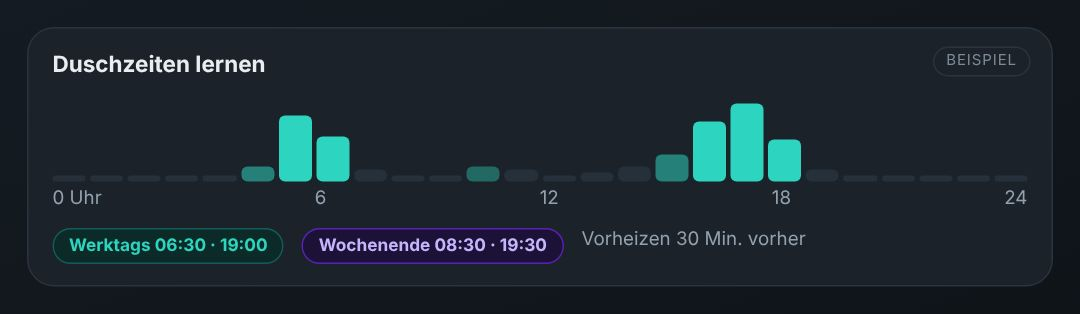
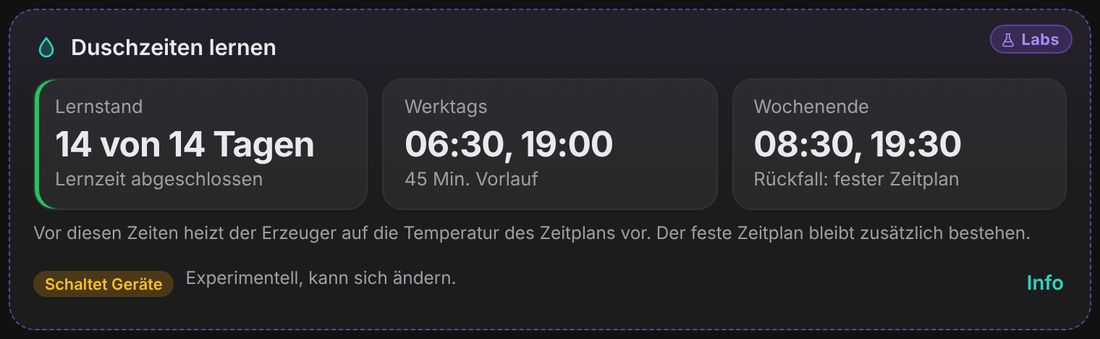
Labs: Beispielbilder als echte Panel-Ausschnitte
Claude-Session: https://claude.ai/code/session_01A6nz2eteovz86KNNe1Xnru

diff --git a/custom_components/fenster_heizung/frontend/panel.js b/custom_components/fenster_heizung/frontend/panel.js
@@ -5340,7 +5340,7 @@ class FensterHeizungPanel extends HTMLElement {
     return `<div class="ov" data-act="close"></div><div class="sheet wide stosh" role="dialog" aria-modal="true">
       <div class="stohd"><span class="stoi big labi">${ic(x.i, 38)}</span><div><b>${esc(x.n)}</b><small>Labs · ${esc(x.mod)} ${esc(x.mn)}</small><div class="stoact">${x.soon ? `<span class="risk">In Vorbereitung</span>` : `<button class="btn2 pri" data-act="labtog" data-k="${x.id}" ${adm ? "" : "disabled"}>${on ? "Ausschalten" : "Einschalten"}</button>${on ? `<span class="stos ok">● Eingeschaltet</span>` : ""}`}</div></div><button class="ibtn" data-act="close" aria-label="Schließen">${ic("close", 20)}</button></div>
       <div class="mut sm" style="margin:0 0 8px">${esc(x.d)}</div>
-      ${LAB_IMG[x.id] ? `<figure class="labfig"><img src="${GA_IMG}lab-${x.id}.jpg${this._ver ? "?v=" + encodeURIComponent(this._ver) : ""}" alt="${esc(LAB_IMG[x.id])}" loading="lazy" decoding="async"><figcaption>${ic("info", 13)}Beispielbild mit erfundenen Werten: ${esc(LAB_IMG[x.id])}</figcaption></figure>` : ""}
+      ${LAB_IMG[x.id] ? `<figure class="labfig"><img src="${GA_IMG}lab-${x.id}.jpg${this._ver ? "?v=" + encodeURIComponent(this._ver) : ""}" alt="${esc(LAB_IMG[x.id])}" loading="lazy" decoding="async"><figcaption>${ic("info", 13)}Ausschnitt aus dem Panel mit Beispielwerten: ${esc(LAB_IMG[x.id])}</figcaption></figure>` : ""}
       ${x.sponsor ? `<div class="spnote">${ic("heart", 18)}<span><b>Nur für Sponsoren</b>${this._spnS().active ? "Dein Sponsor-Schlüssel ist aktiv, du kannst das Modul einschalten." : "Zum Einschalten brauchst du einen aktiven Sponsor-Schlüssel."}</span>${this._spnS().active ? "" : `<button class="btn2" data-act="spnopen">Sponsor werden</button>`}</div>` : ""}
       <div class="stofa"><div><b>${esc(x.mod)}</b><small>wird angezeigt in</small></div><div><b>${this._labK(x)[0]}</b><small>Art</small></div><div><b>${esc(x.st)}${this._labIsEarly(x) ? ` · Vorab bis ${this._labEarlyDate(x)}` : ""}</b><small>Stand</small></div></div>
       <div class="lsec">${ic("check", 15)}Was du bekommst</div><ul class="stoul">${x.feats.map((f) => `<li>${esc(f)}</li>`).join("")}</ul>

diff --git a/frontend-src/parts/12a-labs.js b/frontend-src/parts/12a-labs.js
@@ -269,7 +269,7 @@
     return `<div class="ov" data-act="close"></div><div class="sheet wide stosh" role="dialog" aria-modal="true">
       <div class="stohd"><span class="stoi big labi">${ic(x.i, 38)}</span><div><b>${esc(x.n)}</b><small>Labs · ${esc(x.mod)} ${esc(x.mn)}</small><div class="stoact">${x.soon ? `<span class="risk">In Vorbereitung</span>` : `<button class="btn2 pri" data-act="labtog" data-k="${x.id}" ${adm ? "" : "disabled"}>${on ? "Ausschalten" : "Einschalten"}</button>${on ? `<span class="stos ok">● Eingeschaltet</span>` : ""}`}</div></div><button class="ibtn" data-act="close" aria-label="Schließen">${ic("close", 20)}</button></div>
       <div class="mut sm" style="margin:0 0 8px">${esc(x.d)}</div>
-      ${LAB_IMG[x.id] ? `<figure class="labfig"><img src="${GA_IMG}lab-${x.id}.jpg${this._ver ? "?v=" + encodeURIComponent(this._ver) : ""}" alt="${esc(LAB_IMG[x.id])}" loading="lazy" decoding="async"><figcaption>${ic("info", 13)}Beispielbild mit erfundenen Werten: ${esc(LAB_IMG[x.id])}</figcaption></figure>` : ""}
+      ${LAB_IMG[x.id] ? `<figure class="labfig"><img src="${GA_IMG}lab-${x.id}.jpg${this._ver ? "?v=" + encodeURIComponent(this._ver) : ""}" alt="${esc(LAB_IMG[x.id])}" loading="lazy" decoding="async"><figcaption>${ic("info", 13)}Ausschnitt aus dem Panel mit Beispielwerten: ${esc(LAB_IMG[x.id])}</figcaption></figure>` : ""}
       ${x.sponsor ? `<div class="spnote">${ic("heart", 18)}<span><b>Nur für Sponsoren</b>${this._spnS().active ? "Dein Sponsor-Schlüssel ist aktiv, du kannst das Modul einschalten." : "Zum Einschalten brauchst du einen aktiven Sponsor-Schlüssel."}</span>${this._spnS().active ? "" : `<button class="btn2" data-act="spnopen">Sponsor werden</button>`}</div>` : ""}
       <div class="stofa"><div><b>${esc(x.mod)}</b><small>wird angezeigt in</small></div><div><b>${this._labK(x)[0]}</b><small>Art</small></div><div><b>${esc(x.st)}${this._labIsEarly(x) ? ` · Vorab bis ${this._labEarlyDate(x)}` : ""}</b><small>Stand</small></div></div>
       <div class="lsec">${ic("check", 15)}Was du bekommst</div><ul class="stoul">${x.feats.map((f) => `<li>${esc(f)}</li>`).join("")}</ul>
